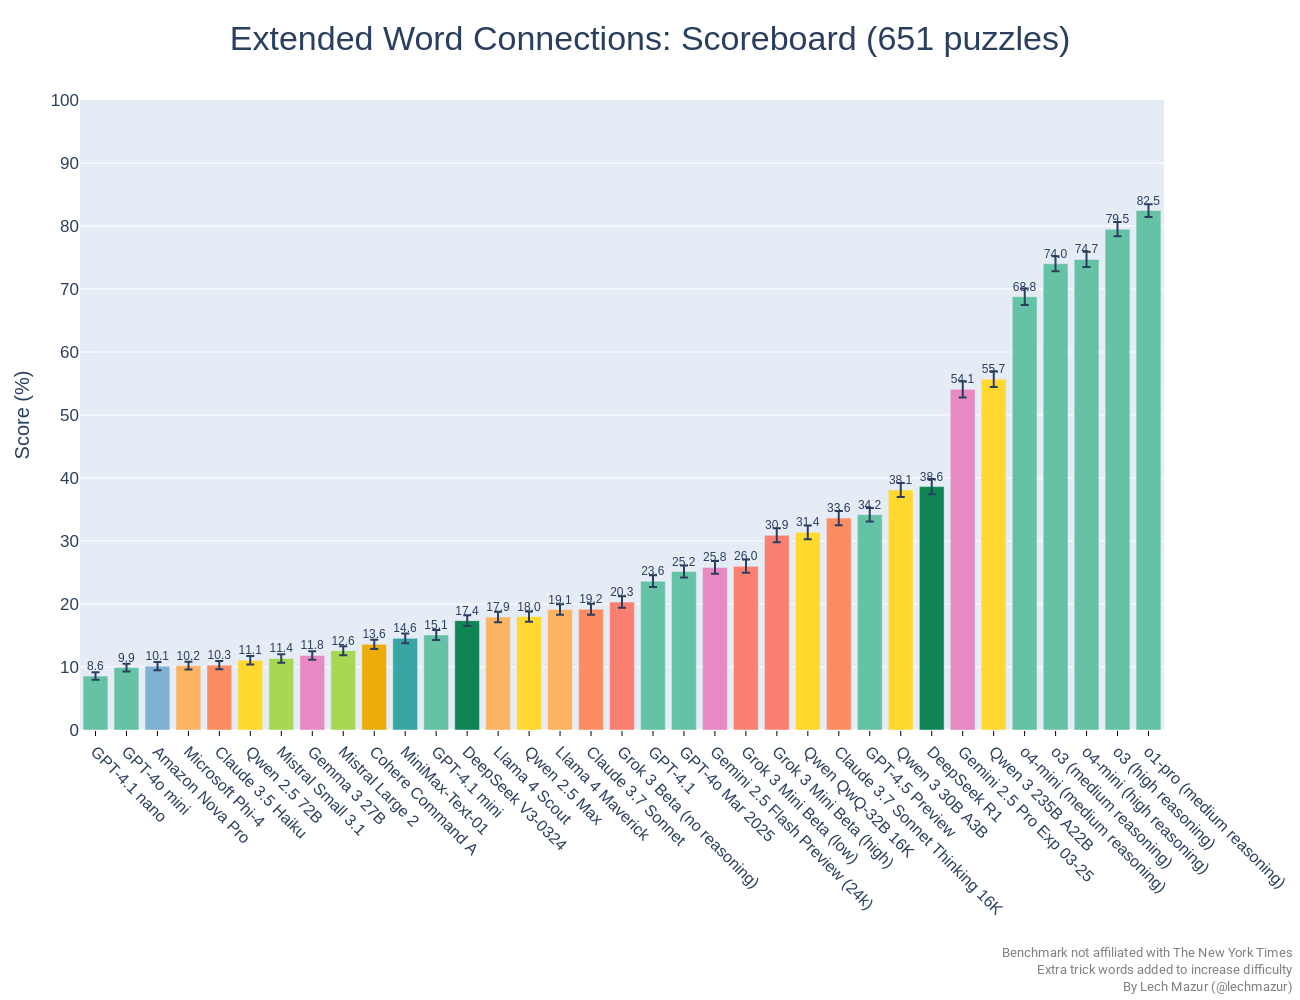
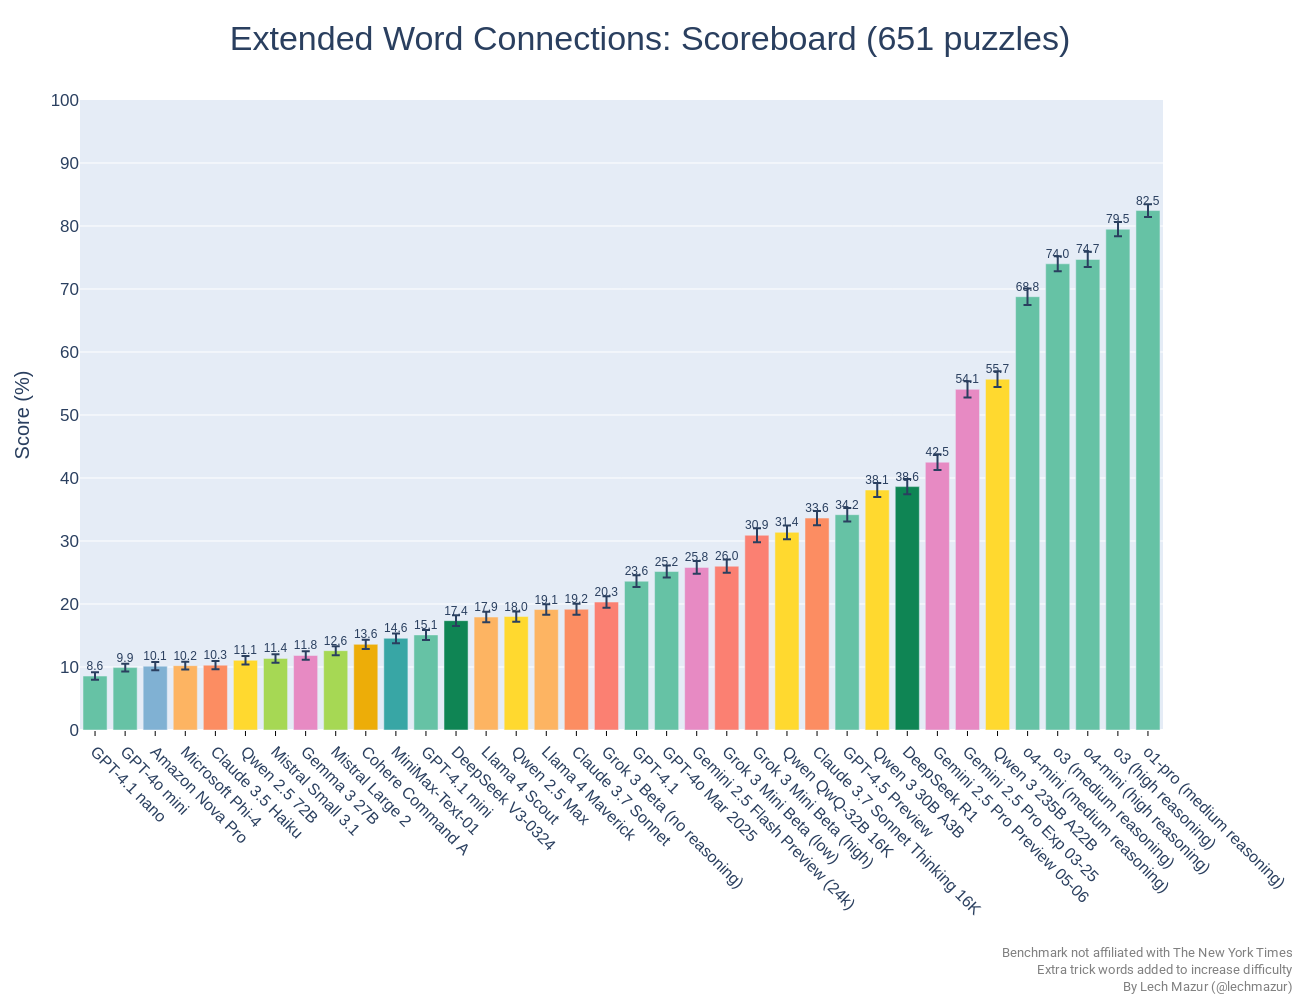
Gemini 2.5 Pro Preview 05-06

Changed region(s): [[0.0615, 0.248, 0.9846, 0.93], [0.8615, 0.186, 0.8923, 0.217]]

diff --git a/README.md b/README.md
@@ -19,55 +19,56 @@ As of Feb 4, 2025, there is a new version of the benchmark. The standard NYT Con
 |5|o1 (medium reasoning)|70.8|
 |6|o4-mini (medium reasoning)|68.8|
 |7|o3-mini (high reasoning)|61.4|
-|8|Qwen3 235B A22B|55.7|
+|8|Qwen 3 235B A22B|55.7|
 |9|Gemini 2.5 Pro Exp 03-25|54.1|
 |10|o3-mini (medium reasoning)|53.6|
-|11|DeepSeek R1|38.6|
-|12|Qwen3 30B A3B|38.1|
-|13|GPT-4.5 Preview|34.2|
-|14|Claude 3.7 Sonnet Thinking 16K|33.6|
-|15|Qwen QwQ-32B 16K|31.4|
-|16|Grok 3 Mini Beta (high)|30.9|
-|17|o1-mini|27.0|
-|18|Grok 3 Mini Beta (low)|26.0|
-|19|Gemini 2.5 Flash Preview (24k)|25.8|
-|20|Quasar Alpha|25.4|
-|21|GPT-4o Mar 2025|25.2|
-|22|GPT-4.1|23.6|
-|23|Gemini 2.0 Flash Think Exp 01-21|23.1|
-|24|GPT-4o Feb 2025|22.7|
-|25|Gemini 2.0 Pro Exp 02-05|21.7|
-|26|Grok 3 Beta (no reasoning)|20.3|
-|27|Grok 2 12-12|19.2|
-|28|Gemini 1.5 Pro (Sept)|19.2|
-|29|Claude 3.7 Sonnet|19.2|
-|30|Claude 3 Opus|19.2|
-|31|Llama 4 Maverick|19.1|
-|32|Gemini 2.0 Flash|18.8|
-|33|GPT-4o 2024-11-20|18.7|
-|34|Qwen 2.5 Max|18.0|
-|35|Llama 4 Scout|17.9|
-|36|GPT-4o 2024-08-06|17.8|
-|37|Claude 3.5 Sonnet 2024-10-22|17.7|
-|38|DeepSeek V3-0324|17.4|
-|39|Llama 3.1 405B|16.2|
-|40|DeepSeek V3|15.1|
-|41|Llama 3.3 70B|15.1|
-|42|GPT-4.1 mini|15.1|
-|43|MiniMax-Text-01|14.6|
-|44|Cohere Command A|13.6|
-|45|Mistral Large 2|12.6|
-|46|Gemma 2 27B|12.2|
-|47|Gemma 3 27B|11.8|
-|48|Mistral Small 3.1|11.4|
-|49|Qwen 2.5 72B|11.1|
-|50|Claude 3.5 Haiku|10.3|
-|51|Microsoft Phi-4|10.2|
-|52|Amazon Nova Pro|10.1|
-|53|GPT-4o mini|9.9|
-|54|Mistral Small 3|8.9|
-|55|GPT-4.1 nano|8.6|
-|56|Claude 3 Haiku|2.2|
+|11|Gemini 2.5 Pro Preview 05-06|42.5|
+|12|DeepSeek R1|38.6|
+|13|Qwen 3 30B A3B|38.1|
+|14|GPT-4.5 Preview|34.2|
+|15|Claude 3.7 Sonnet Thinking 16K|33.6|
+|16|Qwen QwQ-32B 16K|31.4|
+|17|Grok 3 Mini Beta (high)|30.9|
+|18|o1-mini|27.0|
+|19|Grok 3 Mini Beta (low)|26.0|
+|20|Gemini 2.5 Flash Preview (24k)|25.8|
+|21|Quasar Alpha|25.4|
+|22|GPT-4o Mar 2025|25.2|
+|23|GPT-4.1|23.6|
+|24|Gemini 2.0 Flash Think Exp 01-21|23.1|
+|25|GPT-4o Feb 2025|22.7|
+|26|Gemini 2.0 Pro Exp 02-05|21.7|
+|27|Grok 3 Beta (no reasoning)|20.3|
+|28|Grok 2 12-12|19.2|
+|29|Gemini 1.5 Pro (Sept)|19.2|
+|30|Claude 3.7 Sonnet|19.2|
+|31|Claude 3 Opus|19.2|
+|32|Llama 4 Maverick|19.1|
+|33|Gemini 2.0 Flash|18.8|
+|34|GPT-4o 2024-11-20|18.7|
+|35|Qwen 2.5 Max|18.0|
+|36|Llama 4 Scout|17.9|
+|37|GPT-4o 2024-08-06|17.8|
+|38|Claude 3.5 Sonnet 2024-10-22|17.7|
+|39|DeepSeek V3-0324|17.4|
+|40|Llama 3.1 405B|16.2|
+|41|DeepSeek V3|15.1|
+|42|Llama 3.3 70B|15.1|
+|43|GPT-4.1 mini|15.1|
+|44|MiniMax-Text-01|14.6|
+|45|Cohere Command A|13.6|
+|46|Mistral Large 2|12.6|
+|47|Gemma 2 27B|12.2|
+|48|Gemma 3 27B|11.8|
+|49|Mistral Small 3.1|11.4|
+|50|Qwen 2.5 72B|11.1|
+|51|Claude 3.5 Haiku|10.3|
+|52|Microsoft Phi-4|10.2|
+|53|Amazon Nova Pro|10.1|
+|54|GPT-4o mini|9.9|
+|55|Mistral Small 3|8.9|
+|56|GPT-4.1 nano|8.6|
+|57|Claude 3 Haiku|2.2|
 
 
 ---
@@ -97,55 +98,56 @@ To counteract the possibility of an LLM's training data including the solutions,
 |5|o1 (medium reasoning)|70.2|
 |6|o4-mini (medium reasoning)|69.8|
 |7|o3-mini (high reasoning)|60.2|
-|8|Qwen3 235B A22B|55.2|
+|8|Qwen 3 235B A22B|55.2|
 |9|o3-mini (medium reasoning)|53.2|
 |10|Gemini 2.5 Pro Exp 03-25|49.8|
 |11|DeepSeek R1|37.8|
-|12|Qwen3 30B A3B|35.2|
-|13|Qwen QwQ-32B 16K|34.8|
-|14|GPT-4.5 Preview|33.2|
-|15|Claude 3.7 Sonnet Thinking 16K|31.2|
-|16|Grok 3 Mini Beta (high)|31.0|
-|17|Grok 3 Mini Beta (low)|27.5|
-|18|o1-mini|27.5|
-|19|Gemini 2.5 Flash Preview (24k)|25.5|
-|20|Gemini 2.0 Flash Think Exp 01-21|23.5|
-|21|GPT-4.1|23.0|
-|22|Quasar Alpha|23.0|
-|23|GPT-4o Mar 2025|22.2|
-|24|Qwen 2.5 Max|21.5|
-|25|Gemini 2.0 Pro Exp 02-05|20.8|
-|26|Grok 3 Beta (no reasoning)|20.8|
-|27|Llama 4 Maverick|20.5|
-|28|GPT-4o Feb 2025|20.0|
-|29|DeepSeek V3-0324|19.5|
-|30|Llama 4 Scout|19.0|
-|31|Llama 3.1 405B|18.8|
-|32|Claude 3.7 Sonnet|18.2|
-|33|Claude 3 Opus|18.2|
-|34|Gemini 2.0 Flash|18.0|
-|35|Llama 3.3 70B|17.2|
-|36|Claude 3.5 Sonnet 2024-10-22|16.8|
-|37|GPT-4.1 mini|16.2|
-|38|DeepSeek V3|15.8|
-|39|Grok 2 12-12|15.2|
-|40|MiniMax-Text-01|14.0|
-|41|Cohere Command A|13.2|
-|42|Gemini 1.5 Pro (Sept)|12.5|
-|43|GPT-4o 2024-08-06|12.0|
-|44|GPT-4o 2024-11-20|12.0|
-|45|Gemma 3 27B|11.8|
-|46|Qwen 2.5 72B|11.2|
-|47|Gemma 2 27B|10.8|
-|48|Mistral Large 2|10.8|
-|49|Mistral Small 3.1|10.8|
-|50|Microsoft Phi-4|10.8|
-|51|GPT-4o mini|10.5|
-|52|Claude 3.5 Haiku|10.5|
-|53|Amazon Nova Pro|10.0|
-|54|GPT-4.1 nano|8.2|
-|55|Mistral Small 3|5.0|
-|56|Claude 3 Haiku|1.5|
+|12|Gemini 2.5 Pro Preview 05-06|36.2|
+|13|Qwen 3 30B A3B|35.2|
+|14|Qwen QwQ-32B 16K|34.8|
+|15|GPT-4.5 Preview|33.2|
+|16|Claude 3.7 Sonnet Thinking 16K|31.2|
+|17|Grok 3 Mini Beta (high)|31.0|
+|18|Grok 3 Mini Beta (low)|27.5|
+|19|o1-mini|27.5|
+|20|Gemini 2.5 Flash Preview (24k)|25.5|
+|21|Gemini 2.0 Flash Think Exp 01-21|23.5|
+|22|GPT-4.1|23.0|
+|23|Quasar Alpha|23.0|
+|24|GPT-4o Mar 2025|22.2|
+|25|Qwen 2.5 Max|21.5|
+|26|Gemini 2.0 Pro Exp 02-05|20.8|
+|27|Grok 3 Beta (no reasoning)|20.8|
+|28|Llama 4 Maverick|20.5|
+|29|GPT-4o Feb 2025|20.0|
+|30|DeepSeek V3-0324|19.5|
+|31|Llama 4 Scout|19.0|
+|32|Llama 3.1 405B|18.8|
+|33|Claude 3.7 Sonnet|18.2|
+|34|Claude 3 Opus|18.2|
+|35|Gemini 2.0 Flash|18.0|
+|36|Llama 3.3 70B|17.2|
+|37|Claude 3.5 Sonnet 2024-10-22|16.8|
+|38|GPT-4.1 mini|16.2|
+|39|DeepSeek V3|15.8|
+|40|Grok 2 12-12|15.2|
+|41|MiniMax-Text-01|14.0|
+|42|Cohere Command A|13.2|
+|43|Gemini 1.5 Pro (Sept)|12.5|
+|44|GPT-4o 2024-08-06|12.0|
+|45|GPT-4o 2024-11-20|12.0|
+|46|Gemma 3 27B|11.8|
+|47|Qwen 2.5 72B|11.2|
+|48|Gemma 2 27B|10.8|
+|49|Mistral Large 2|10.8|
+|50|Mistral Small 3.1|10.8|
+|51|Microsoft Phi-4|10.8|
+|52|GPT-4o mini|10.5|
+|53|Claude 3.5 Haiku|10.5|
+|54|Amazon Nova Pro|10.0|
+|55|GPT-4.1 nano|8.2|
+|56|Mistral Small 3|5.0|
+|57|Claude 3 Haiku|1.5|
 
 
 
@@ -235,6 +237,7 @@ This benchmark evaluates large language models (LLMs) using 436 NYT Connections 
 ---
 
 ## Updates
+- May 7, 2025: Gemini 2.5 Pro Preview 05-06 added.
 - Apr 30, 2025: Qwen 3 added.
 - Apr 18, 2025: o3, o4-mini, Gemini 2.5 Flash Preview added.
 - Apr 15, 2025: GPT-4.1 added.
